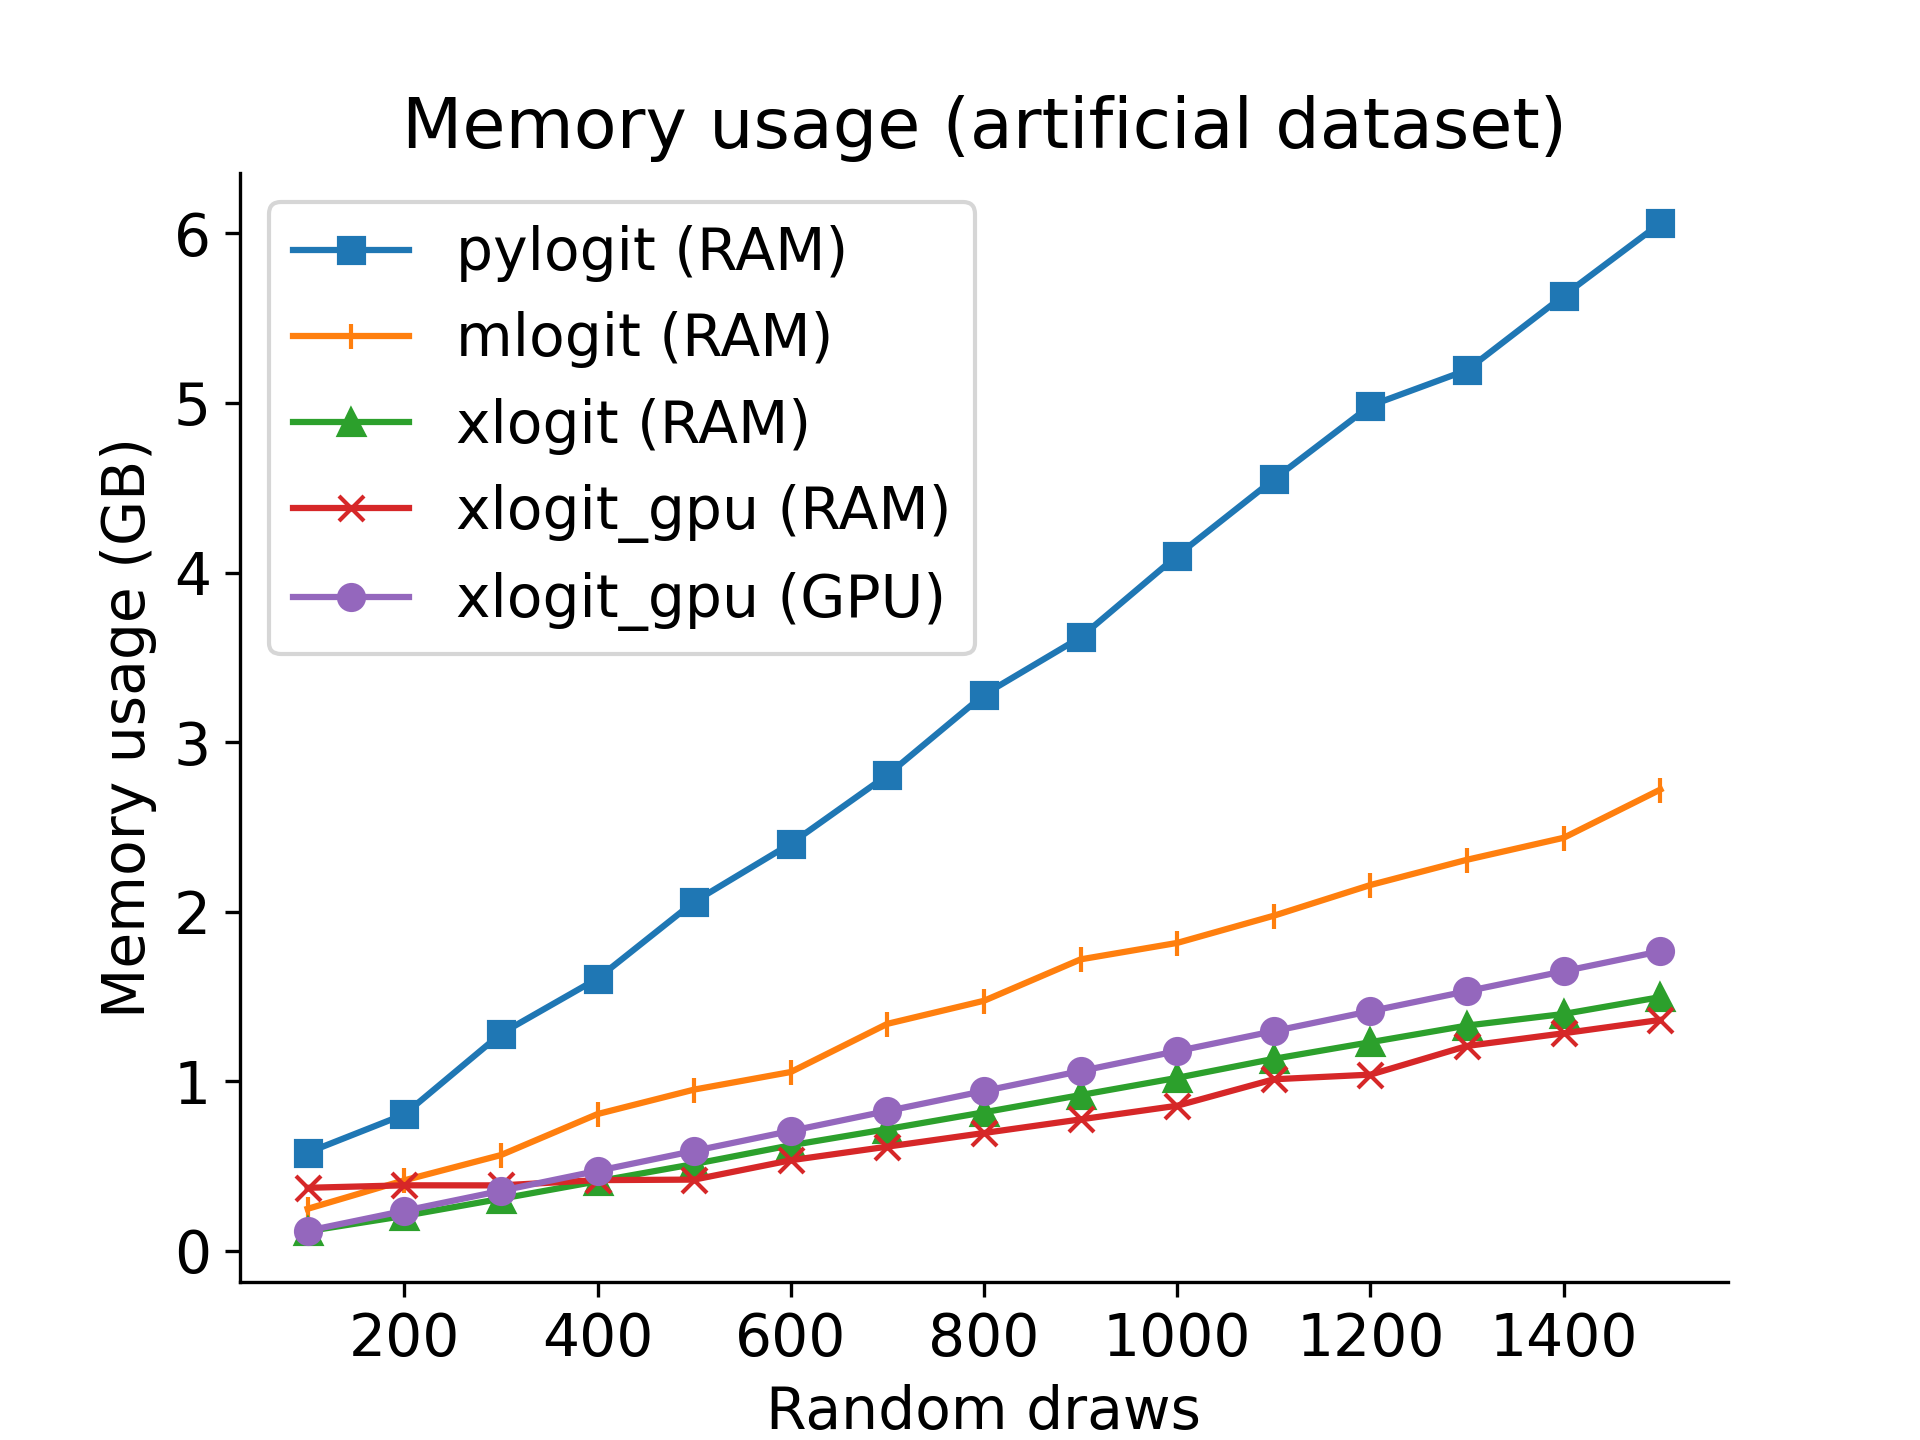
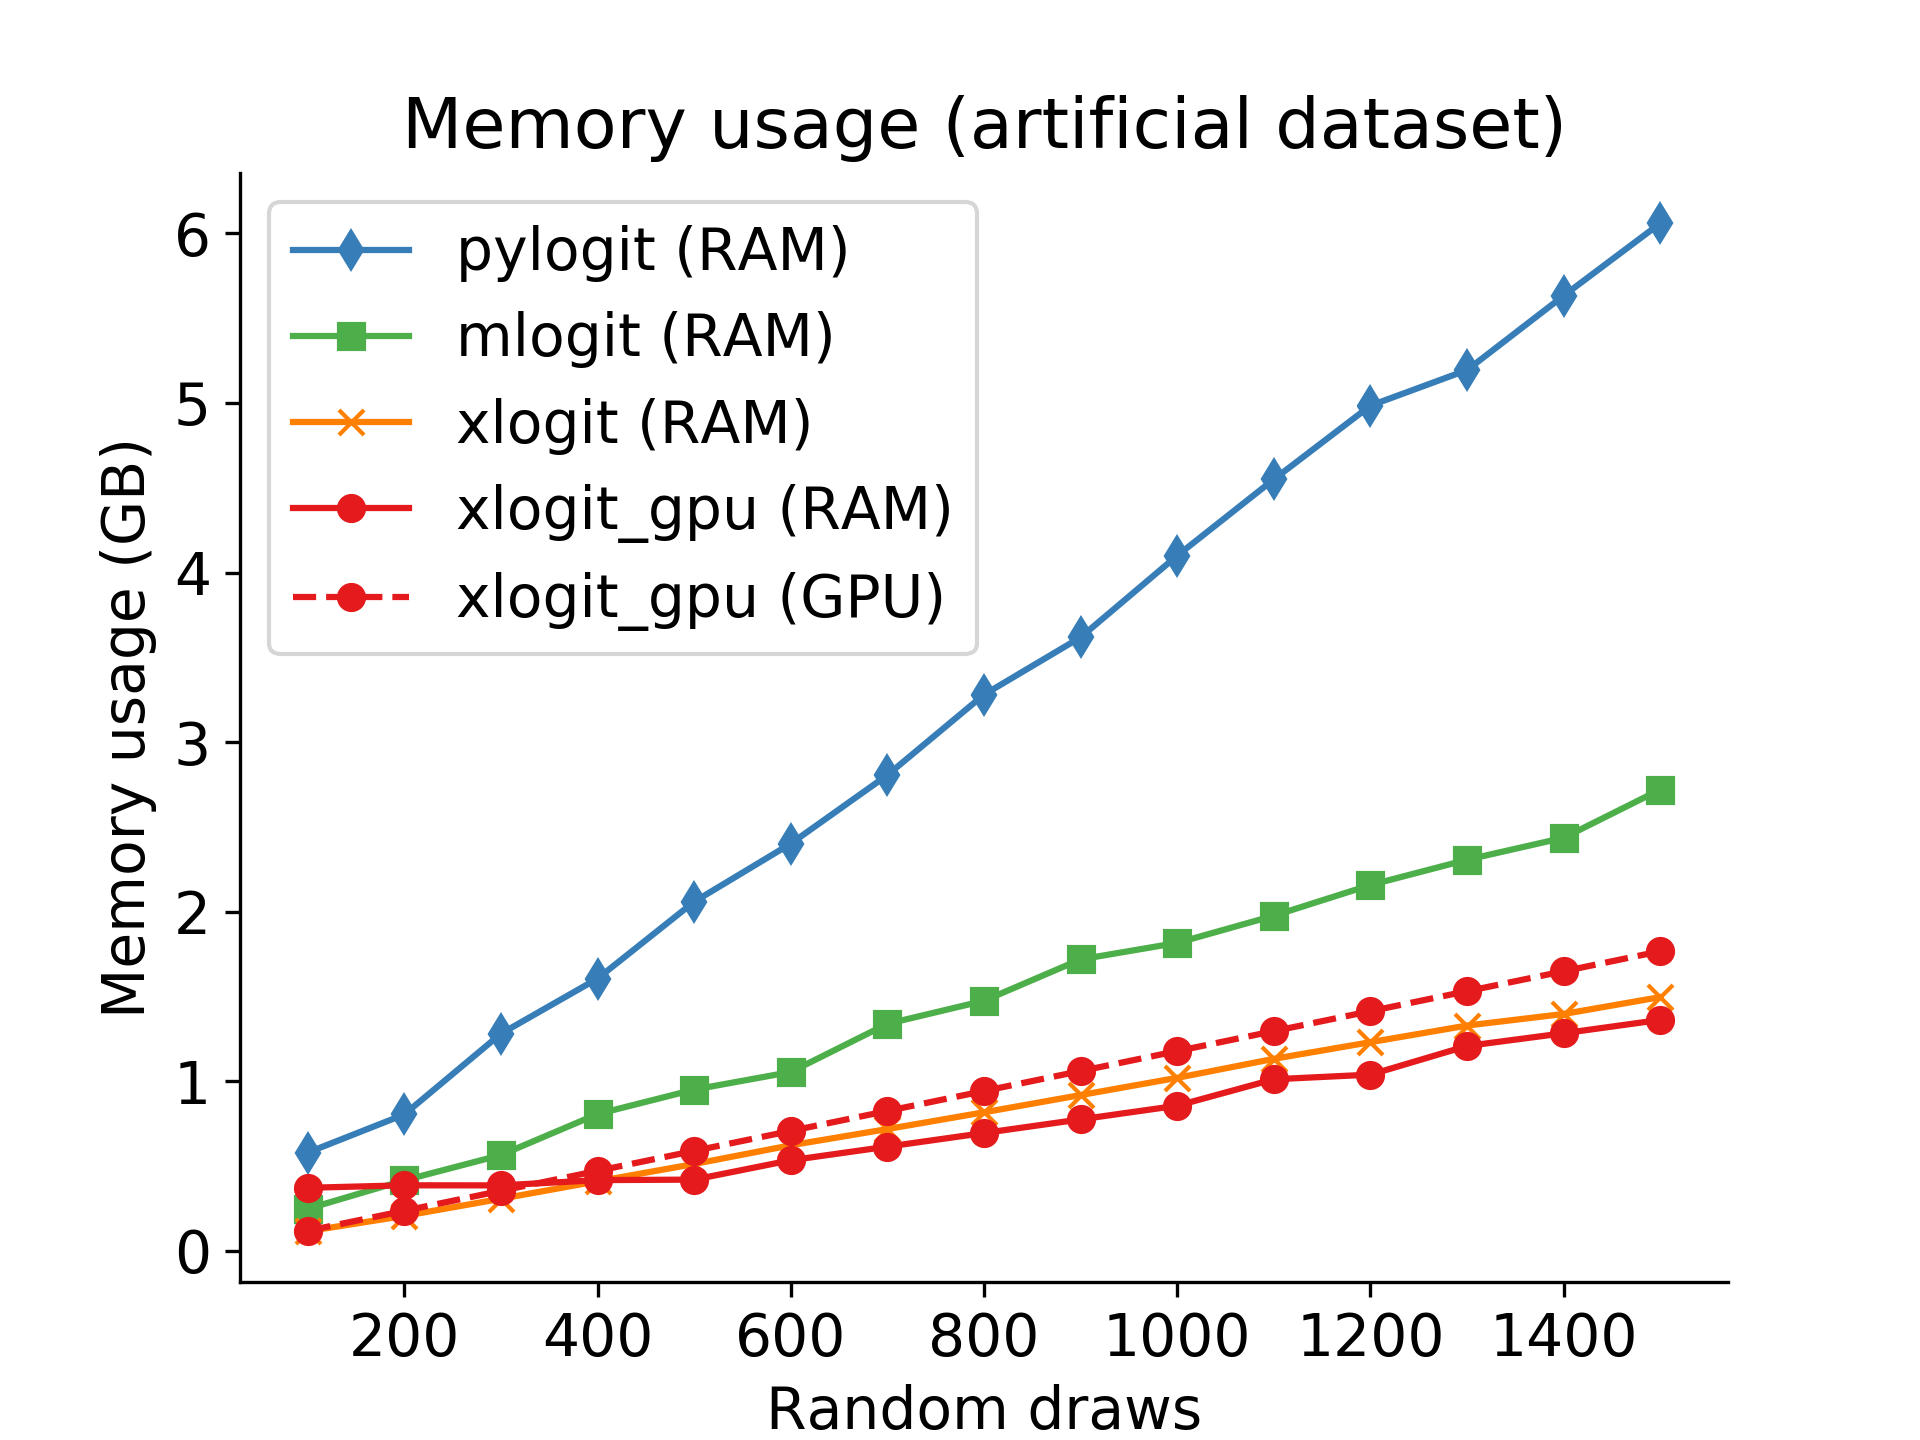
Benchmark results updated

diff --git a/examples/benchmark/plot_results.py b/examples/benchmark/plot_results.py
@@ -6,10 +6,8 @@ import pandas as pd
 matplotlib.rcParams.update({'font.size': 14,
                             'axes.spines.right': False,
                             'axes.spines.top': False})
-markers = ['s', '|', '^', 'x', 'o', '1']
-lines = [':', '--', '-']
-colors = ["#1f77b4", "#ff7f0e", "#2ca02c", "#d62728", "#9467bd", '#8c564b']
-
+markers = ['d', 's', 'x', 'o', '^', '|']
+colors = ["#377eb8", "#4daf4a", "#ff7f00", "#e41a1c", "#984ea3",  "#a4c500"]
 
 # ==========================================
 # pylogit and mlogit benchmark
@@ -24,9 +22,9 @@ def plot_memory_benchmark(dataset):
     plt.figure()
     for i, lib in enumerate(libs):
         d = dfe[dfe.library == lib][["draws", "ram"]].values.T
-        plt.plot(d[0], d[1], marker=markers[i])
+        plt.plot(d[0], d[1], marker=markers[i], c=colors[i])
     d = dfe[dfe.library == "xlogit_gpu"][["draws", "gpu"]].values.T
-    plt.plot(d[0], d[1], marker="+", c="#bcbd22")
+    plt.plot(d[0], d[1], marker=markers[3], c=colors[3], linestyle="--")
     plt.legend([i + " (RAM)" for i in libs] + ["xlogit_gpu (GPU)"])
     plt.xlabel("Random draws")
     plt.ylabel("Memory usage (GB)")
@@ -40,7 +38,7 @@ def plot_time_benchmark(dataset):
     plt.figure()
     for i, lib in enumerate(libs):
         d = dfe[dfe.library == lib][["draws", "time"]].values.T
-        plt.plot(d[0], d[1], marker=markers[i])
+        plt.plot(d[0], d[1], marker=markers[i], c=colors[i])
     plt.legend(libs)
     plt.xlabel("Random draws")
     plt.ylabel("Time (Seconds)")
@@ -59,6 +57,7 @@ plot_time_benchmark("artificial")
 # ==========================================
 # apollo and biogeme benchmark
 # ==========================================
+lines = [':', '--', '-']
 r_draws = [100, 500, 1000, 1500]
 r_cores = [16, 32, 64]
 dfab = pd.read_csv("results/benchmark_results_apollo_biogeme.csv")
@@ -73,7 +72,7 @@ for lib in libs:
 
 
 def plot_time_benchmark_apollo_biogeme(df):
-    plt.figure(figsize=(11, 7))
+    plt.figure(figsize=(8, 7))
     for li, lib in enumerate(['apollo', 'biogeme']):
         for c, cores in enumerate(r_cores):
             idx = (df.library == lib) & (df.cores == cores)
@@ -81,10 +80,12 @@ def plot_time_benchmark_apollo_biogeme(df):
             plt.plot(d[0], d[1], marker=markers[-li - 1], linestyle=lines[c],
                      c=colors[-li - 1], label="{} {} cores".format(lib, cores))
     for li, lib in enumerate(libs):
-        idx = (df.library == lib)
-        d = df[idx][["draws", "time"]].values.T
-        plt.plot(d[0], d[1], marker=markers[li], c=colors[li], label=lib)
-    plt.legend(loc='upper center', bbox_to_anchor=(0.5, -0.11), ncol=4)
+        if lib == "xlogit" or lib == "xlogit_gpu":
+            idx = (df.library == lib)
+            d = df[idx][["draws", "time"]].values.T
+            plt.plot(d[0], d[1], marker=markers[li], c=colors[li], label=lib)
+
+    plt.legend(loc='upper center', bbox_to_anchor=(0.5, -0.11), ncol=3)
     plt.xlabel("Random draws")
     plt.ylabel("Time (Seconds)")
     plt.title("Estimation time (artificial dataset)")
